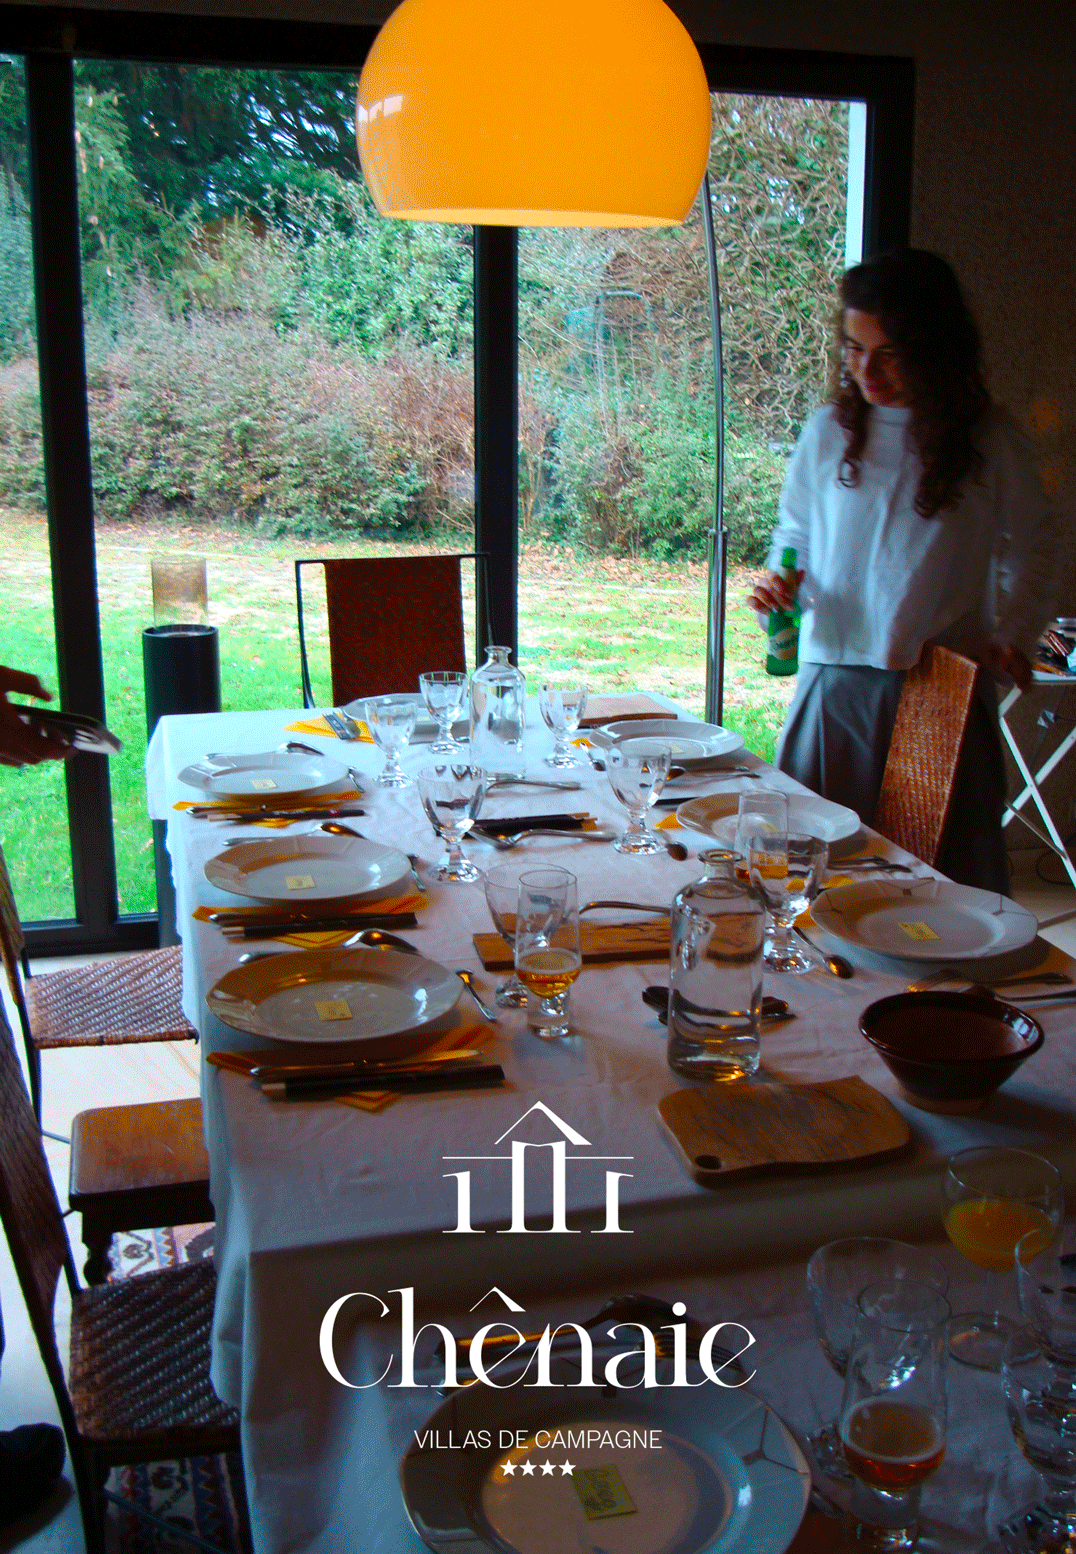
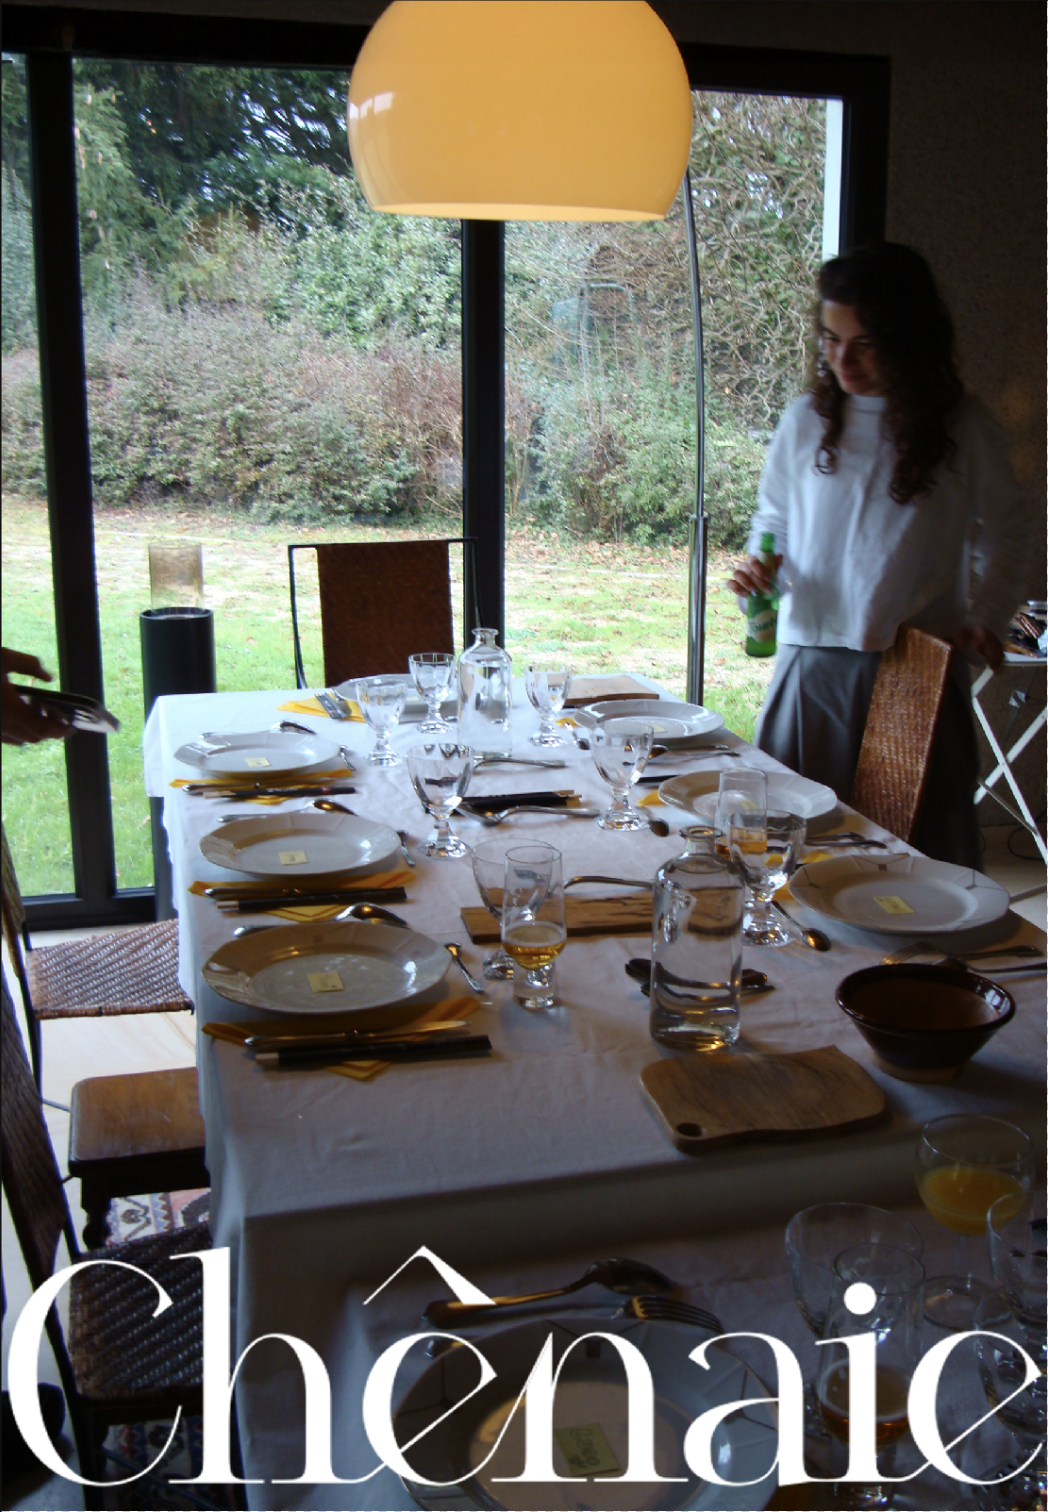
nx

diff --git a/style/style.css b/style/style.css
@@ -595,17 +595,16 @@ header ul li a:active {
 }
 #colonnegauche aside p {
     flex: 1 1 auto;
-    min-height: 0;              /* indispensable pour que le scroll fonctionne dans un flex */
+    min-height: 0;
     overflow-y: auto;
-    padding-right: 1vw;         /* espace entre le texte et la barre de défilement */
+    padding-right: 1vw;
 
     font-family: "Apfel Grotezk", "Helvetica Neue", Helvetica, Arial, sans-serif;
     font-size: 1.05rem;
     line-height: 1.3;
-    text-align: justify;
-    hyphens: auto;
+    text-align: left;
+    hyphens: none;
 }
-
 #colonnegauche aside p {
     scrollbar-width: thin;
     scrollbar-color: #000 transparent;
@@ -1033,4 +1032,107 @@ body#about {
         width: 86vw;
         font-size: 1rem;
     }
+
+
+
+
+
+
+
+
+
+
+
+
+
+
+
+
+
+
+
+
+
+
+
+
+
+
+
+
+
+
+
+
+
+
+
+
+
+
+
+
+
+
+
+
+
+
+
+
+
+
+
+
+
+    /* ============ MOBILE ============ */
+@media (max-width: 800px) {
+
+  /* hauteur réelle sur téléphone (barre d'adresse) */
+  body#collage, body#about { height: 100dvh; }
+  #collage #zone-collage, #about #zone-collage { height: 100dvh; }
+
+  /* header */
+  #identite h1 { font-size: 1.2em; margin-top: 4vw; margin-left: 4vw; }
+  header ul { width: auto; gap: 8px; margin-right: 4vw; margin-top: 4vw; }
+  header ul li a { font-size: 0.85em; padding: 4px 12px; }
+
+  /* collage : le drag au doigt marche seulement avec touch-action */
+  #collage .carte { touch-action: none; scale: 1.8; }
+  #about .carte   { scale: 1.6; }
+
+  /* about : texte plus bas, défilable s'il dépasse */
+  #about .about-texte {
+    left: 7vw; top: 52vh; width: 86vw;
+    font-size: 0.9rem;
+    max-height: 34vh; overflow-y: auto;
+  }
+
+  /* liste */
+  .liste-projets { margin-top: 28vw; }
+
+  /* pages projet : on empile, et c'est la page qui défile */
+  #project { overflow-y: auto; }
+  #projetTYPE { height: auto; display: block; }
+
+  #colonnegauche {
+    position: static; width: 100%; height: auto;
+    padding: 24vw 5vw 4vw;
+  }
+  #colonnegauche aside { height: auto; }
+  #colonnegauche aside p { overflow: visible; font-size: 1rem; }
+  #colonnegauche h1 { font-size: 2.2em; }
+  #colonnegauche h4 { margin-bottom: 5vw; }
+  .team-section { padding-bottom: 6vw; margin-top: 6vw; }
+
+  #colonnedroite {
+    position: static; width: 100%; height: auto;
+    overflow: visible; padding: 0 5vw 5vw;
+  }
+  .imgdeuxcolonnes { grid-template-columns: 1fr; gap: 3vw; }
+  .imgpleinelargeur { margin-bottom: 3vw; }
+  .souscoldroite figure img { height: auto; }
+  .NEXT { margin-top: 12vw; }
+  .NEXT-item { padding: 8px 16px; }
+}
 }

diff --git a/leanature.html b/leanature.html
@@ -41,12 +41,16 @@
 
             <aside>
 
-                <h1>Léa Nature, toujours engagée de nature</h1>
+                <h1>Léa Nature</h1>
 
-                <h4>Cap-Vert, <br>Afrique<span>2024</span></h4>
+                <h4>Illustrator<br>Figma<br>Photoshop<span>2026</span></h4>
 
                 <p>
-                    This photographic series explores my connection to Cape Verde, my country of origin, where I do not live but where I feel I belong. Through my grandmother’s house in Santo Antão, her neighborhood, and Porto Novo, I express a sense of calm and belonging. I worked with a palette of warm, natural tones inspired by the landscape. My subjects are those that make up my daily life there: my family, the houses, and the street animals.
+                    This project focuses on rethinking the brand identity of Léa Nature, a group bringing together 24 brands across different areas of everyday organic living. My aim was to address the challenges of brand recognition and transparency by making the parent company more visible to consumers, while preserving the individual identities of its sub-brands.
+<br><br>
+The visual concept is built around a stem-like line, which refers both to Léa Nature’s origins and its early focus on the benefits of plants, and to the idea of a common thread connecting all the brands through shared values. The colour palette reflects the diversity of the different sectors within the group.
+<br><br>
+The new identity is rolled out across various touchpoints, including logo animation, website design, the scenography of a pop-up store for Natexpo 2026, and the creation of branded stickers to be applied directly to existing product packaging. These stickers make it easier for consumers to identify products as part of the Léa Nature group, improving traceability and building consumer trust. <br><br><br>
                 </p>
 
                 <!-- TEAM SECTION EN BAS DE LA COLONNE -->

diff --git a/etsi.html b/etsi.html
@@ -29,7 +29,7 @@
     <!-- Colonne de gauche étroite -->
     <div id="colonnegauche">
         <aside>
-            <h1>/Et si le luxe ?</h1>
+            <h1>Et si le luxe ? Chênaie</h1>
             <h4>Photoshop <br>Camera Raw<span>2026</span></h4>
             <p>
                 I created an advertising campaign for Chênaie – Country Villas. It highlights the family-friendly and welcoming atmosphere of the place, inviting people to rent a cottage and come together to share simple moments.
@@ -89,12 +89,15 @@
         <div class="imgdeuxcolonnes">
             <div class="souscolgauche">
                 <figure>
-                    <img src="import/etsi04.jpg" alt="Et si le luxe ?, visuel 4">
-                </figure>
-                <figure>
                     <img src="import/etsi05.jpg" alt="Et si le luxe ?, visuel 5">
                 </figure>
+
+                <figure>
+                    <img src="import/etsi04.jpg" alt="Et si le luxe ?, visuel 4">
+                </figure>
             </div>
+
+           
             <div class="souscoldroite">
                 <figure>
                     <img src="import/etsi06.jpg" alt="Et si le luxe ?, visuel 6">
